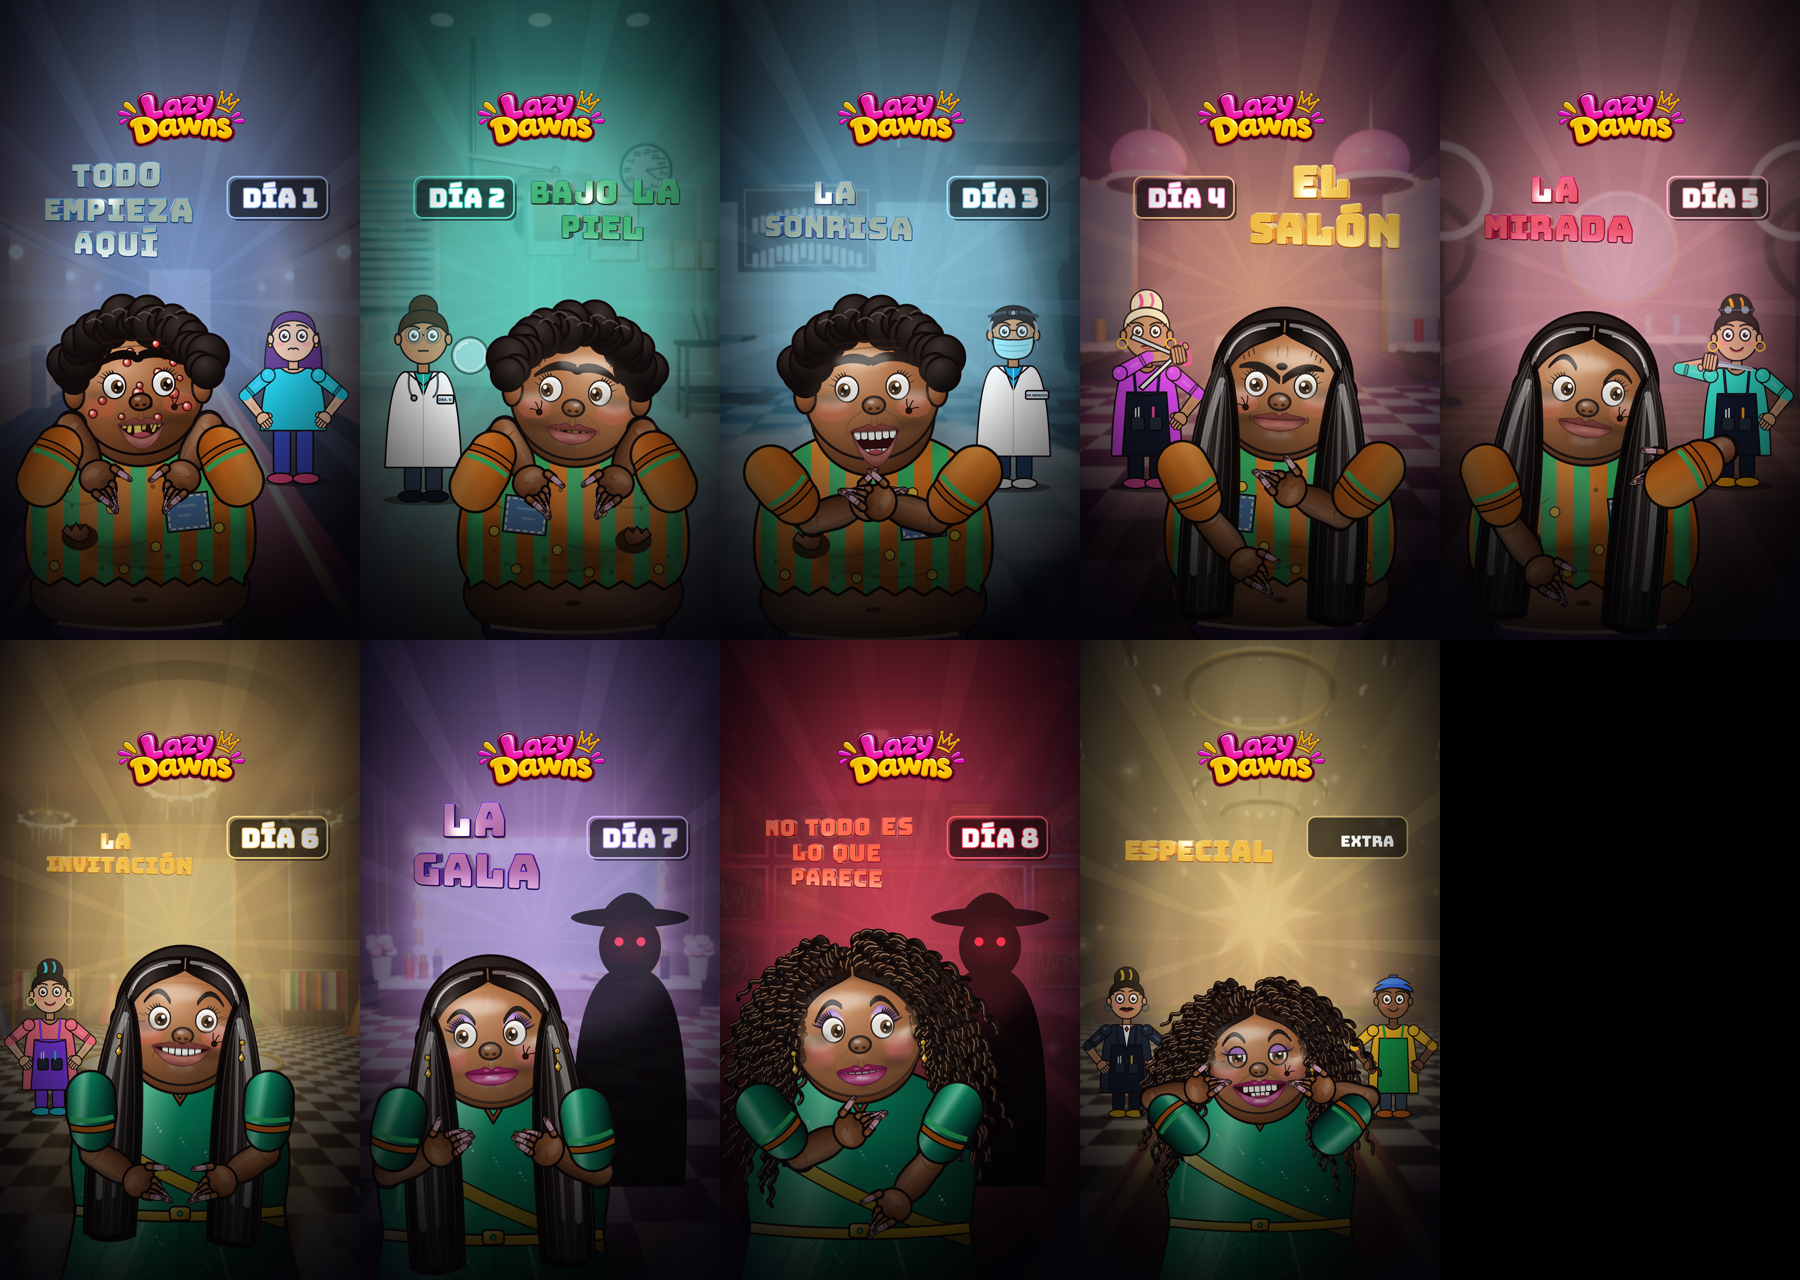
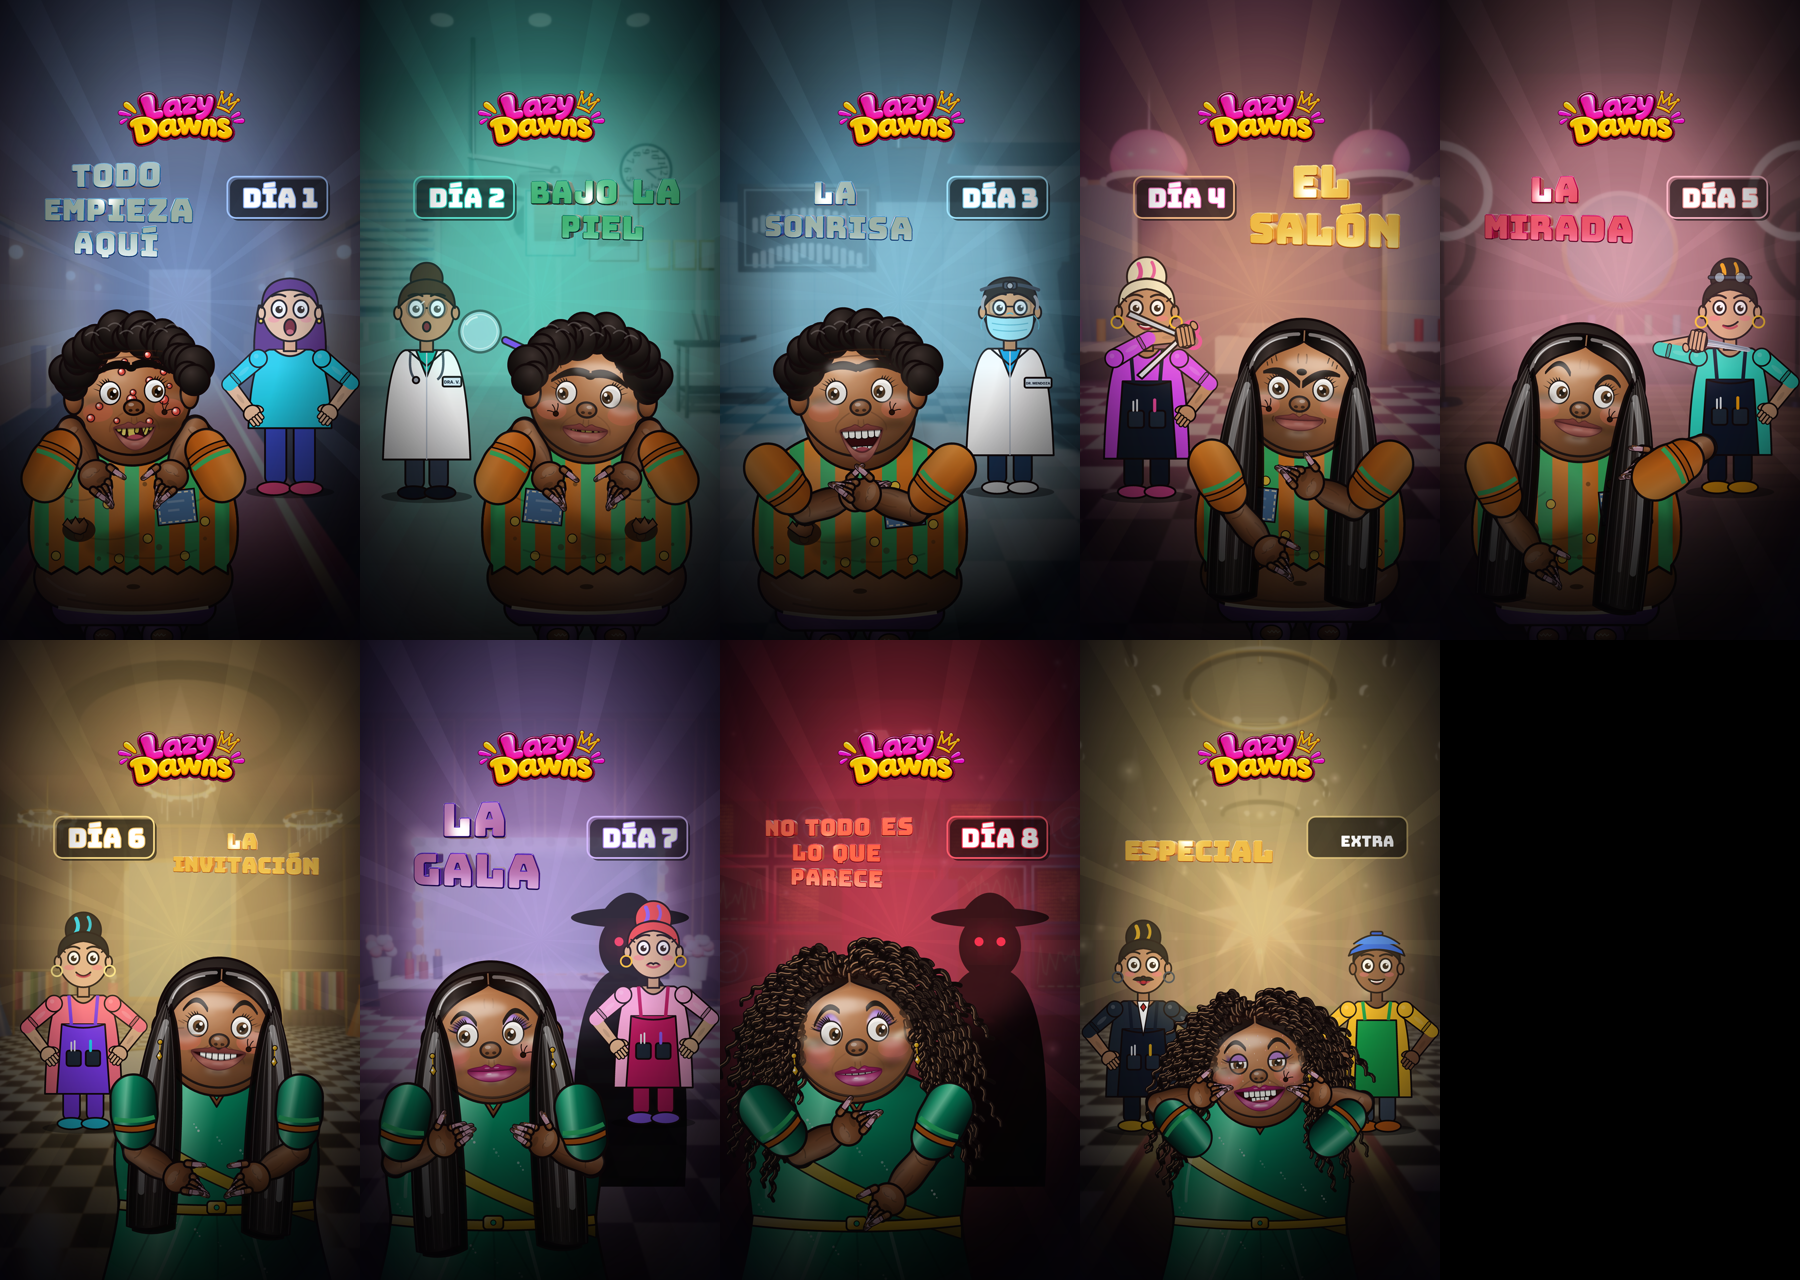
Portadas: personajes completos con reaccion; regla de portada por video

diff --git a/lazy-dawns/README.md b/lazy-dawns/README.md
@@ -161,3 +161,7 @@ Cada voto ofrece 2 opciones del banco de abajo (las que no hayan ganado se recic
 - Rotulos de inserts siempre por encima de las etiquetas de personaje/subtitulos (sin traslapes).
 - Texturas: los sitios de texturas (PolyHaven/ambientCG) estan bloqueados desde este entorno; se usan texturas procedurales generadas en canvas (y archivos de GitHub cuando sirven).
 - Los videos "especial" no cuentan como dia; terminan pidiendo comentarios sobre cambiar/mejorar SOLO lo ya arreglado (piel, dientes, pelo, cejas, ropa, maquillaje). Lunar y nariz son para los videos normales.
+
+## Regla permanente: PORTADA con cada video (decision del creador)
+- Cada vez que se entregue un video (dia o especial) se entrega TAMBIEN su portada 1080x1920 (TikTok/Reels/Shorts), tematica del dia, sin spoilers y UNICA: expresion, manos, personajes y composicion distintos a las demas.
+- Todo dentro de la zona segura (caja 3:4 central, margen >= 60 px); sin texto en la parte inferior; logo oficial (logo_lazydawns.png) pequeno arriba al centro, titulo 3D, cuadro DIA N bien visible. Los personajes (Lazy y acompanantes) deben verse completos dentro del margen, con reaccion en la cara. Generador: build_cover2.mjs (CFG/UQ por episodio).
